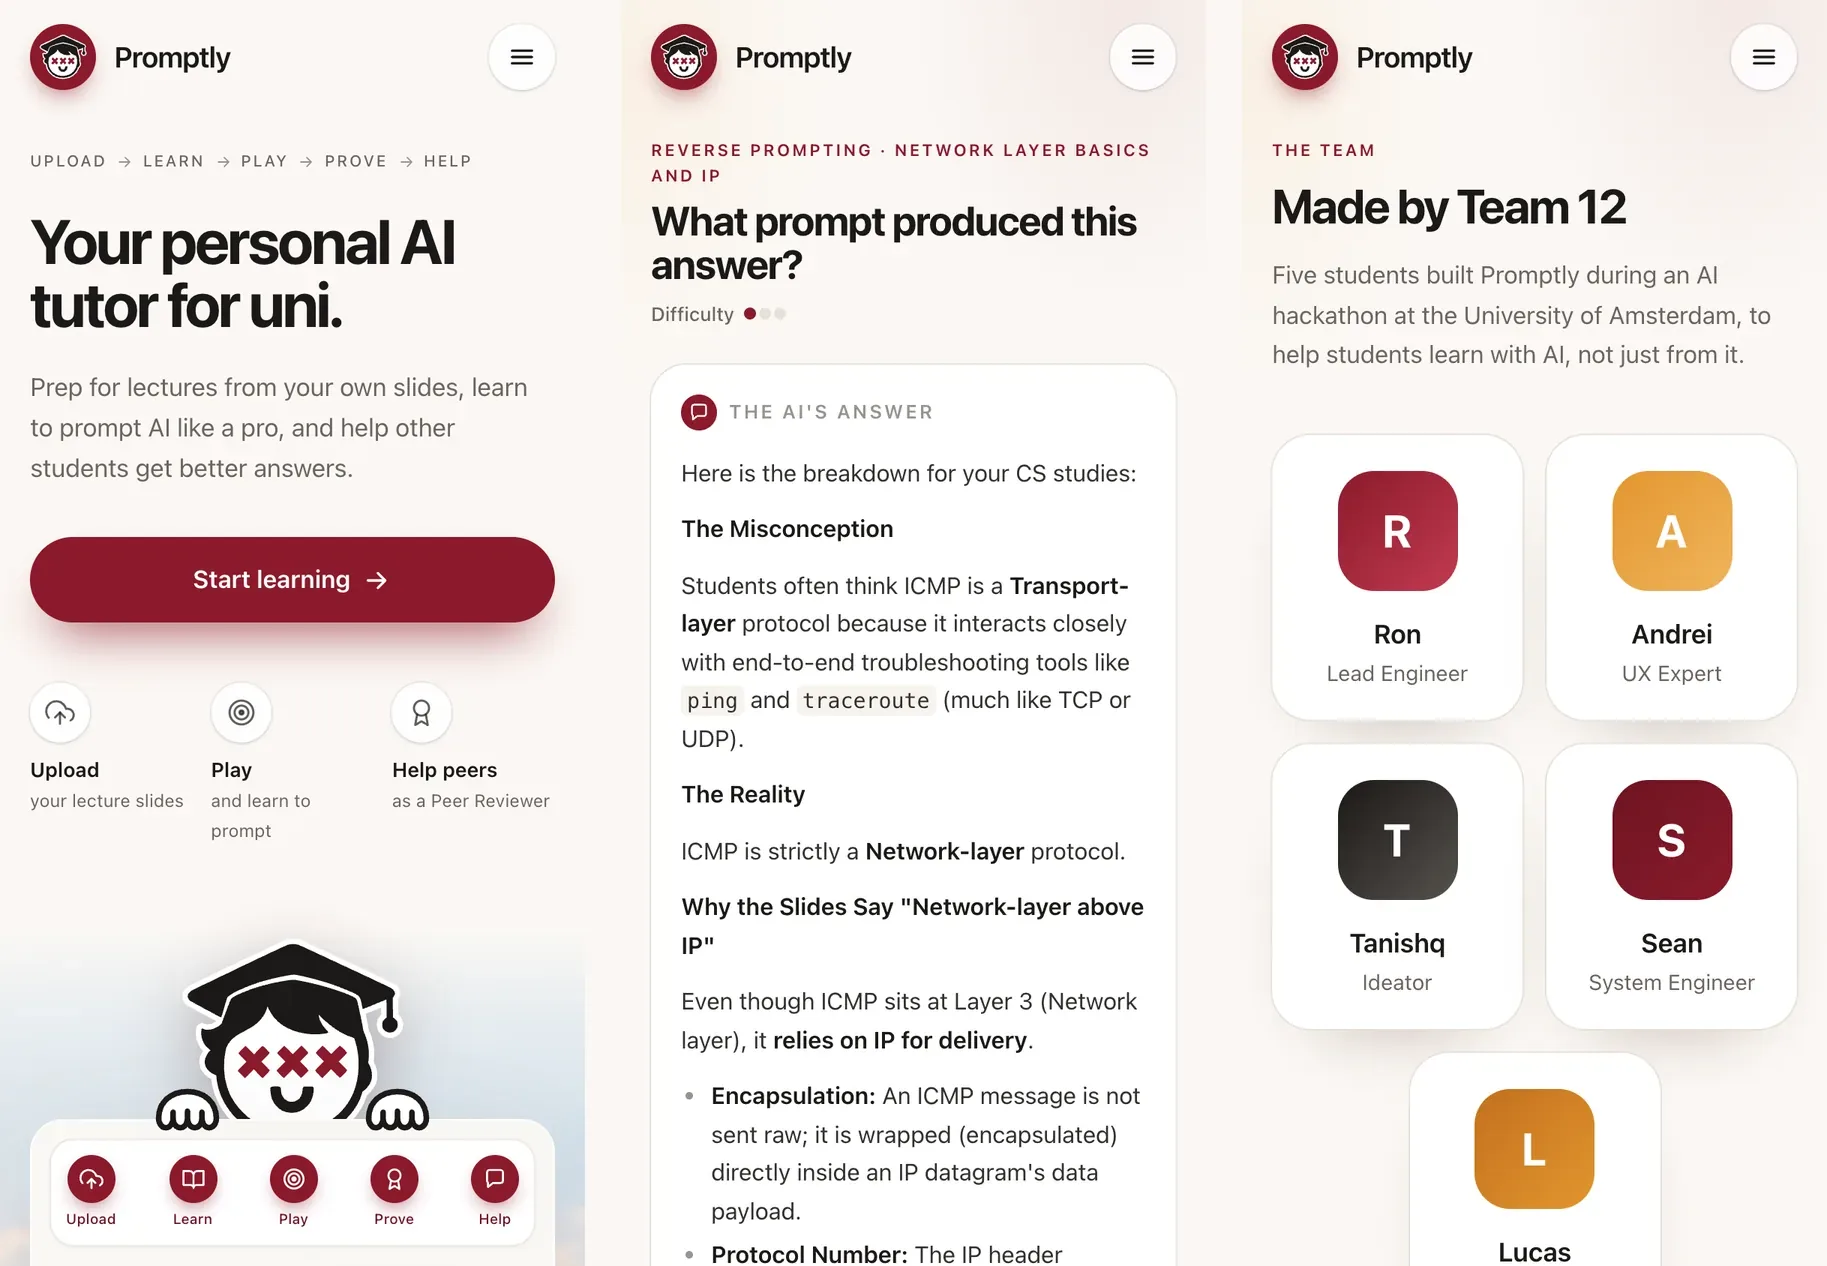
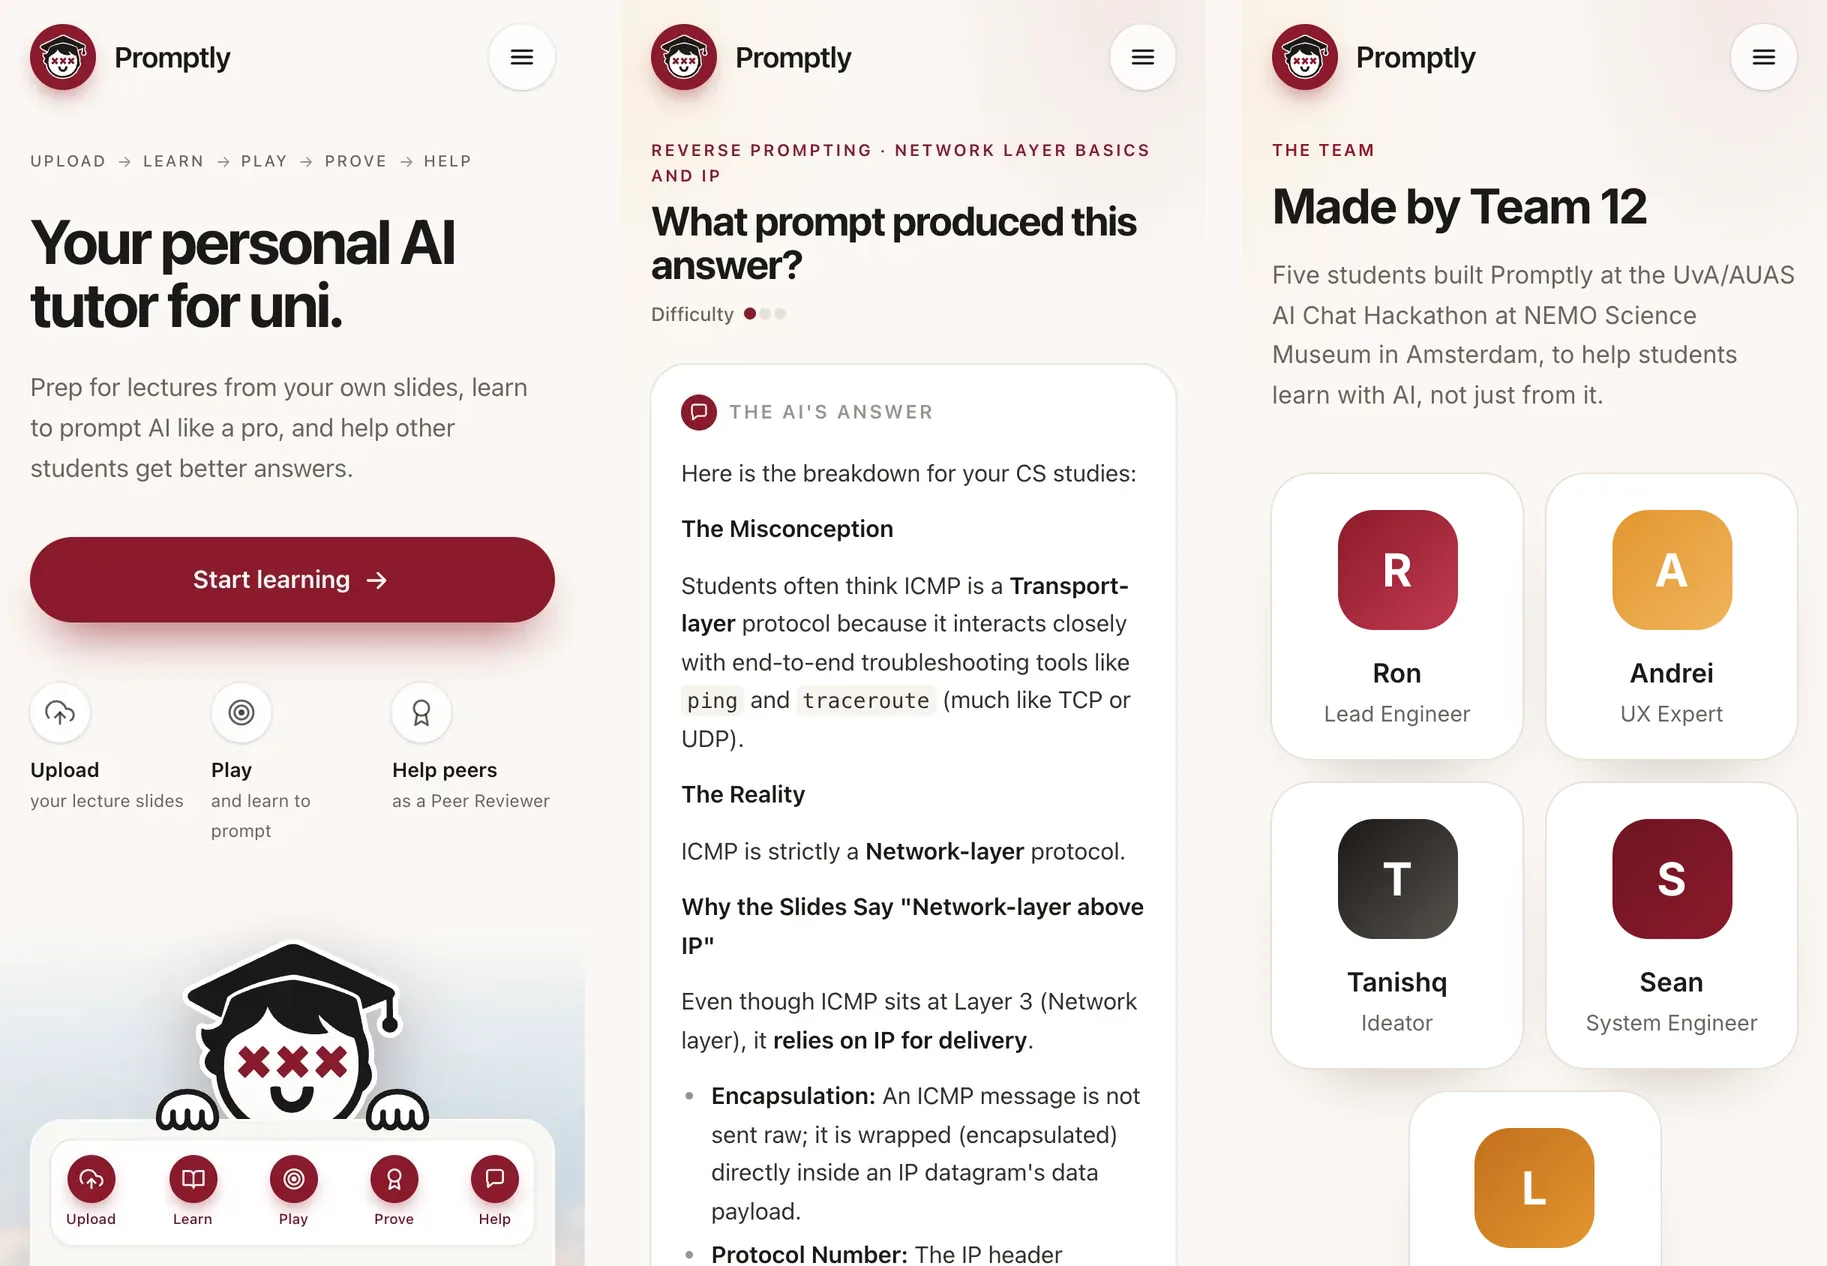
Name the hackathon: the UvA/AUAS AI Chat Hackathon at NEMO
The Team page and README said "an AI hackathon at the University of
Amsterdam". The README also says the app was built on UvA AI Chat and
the live demo uses Gemini.

diff --git a/frontend/src/components/TeamPage.jsx b/frontend/src/components/TeamPage.jsx
@@ -19,8 +19,8 @@ export default function TeamPage() {
         <Eyebrow>The team</Eyebrow>
         <Title className="mt-3">Made by Team 12</Title>
         <Lead className="mt-4">
-          Five students built Promptly during an AI hackathon at the University of Amsterdam, to help
-          students learn with AI, not just from it.
+          Five students built Promptly at the UvA/AUAS AI Chat Hackathon at NEMO Science Museum in
+          Amsterdam, to help students learn with AI, not just from it.
         </Lead>
 
         <ul className="mt-10 flex flex-wrap justify-center gap-4 sm:mt-12">

diff --git a/README.md b/README.md
@@ -86,8 +86,8 @@ It works on a phone too:
   module in [`backend/`](backend).
 - **Frontend:** React, [Vite](https://vite.dev) and [Tailwind CSS](https://tailwindcss.com),
   in [`frontend/`](frontend).
-- **AI:** any OpenAI-compatible chat API. The live demo uses Google's `gemini-3.5-flash-lite`
-  on the free tier. Structured answers such as quizzes and scores are requested as JSON,
+- **AI:** any OpenAI-compatible chat API. We built it on UvA AI Chat at the hackathon; the live
+  demo uses Google's `gemini-3.5-flash-lite` on the free tier, so anyone can try it. Structured answers such as quizzes and scores are requested as JSON,
   checked against a schema, and retried once if they don't fit. Each visitor gets a limited
   number of AI calls, so one person can't use up the free quota.
 - **Hosting:** one Docker container on [Render](https://render.com), where FastAPI serves both
@@ -136,7 +136,8 @@ key when it asks for `LLM_API_KEY`. [`render.yaml`](render.yaml) sets up the res
 
 ## The team
 
-Promptly was built by Team 12 during an AI hackathon at the University of Amsterdam.
+Promptly was built by Team 12 at the UvA/AUAS AI Chat Hackathon at NEMO Science Museum in
+Amsterdam on 1 October 2026.
 
 | | |
 |---|---|
